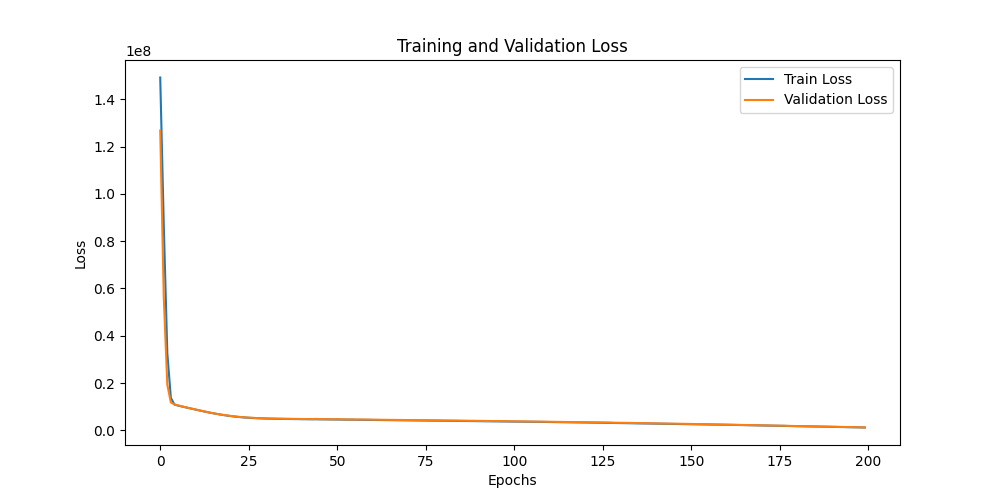
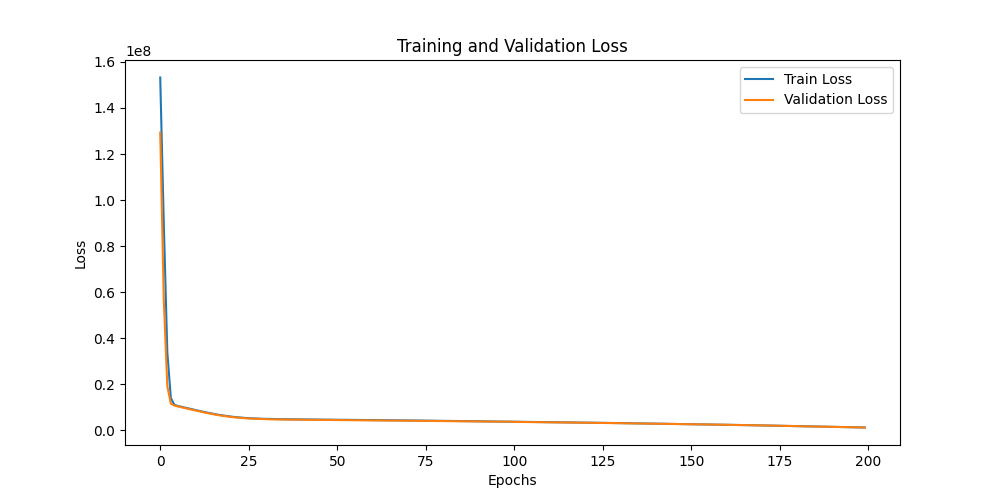
Mejoras en exercise01 y 02

diff --git a/src/exercise_02/model.py b/src/exercise_02/model.py
@@ -1,9 +1,13 @@
+# Define los modelos de perceptrón simple y multicapa/multilayer perceptron
+
 import torch
 import torch.nn as nn
 
-
 # Debe tener el init y el forward
-class SimplePerceptron(nn.Module):
+class SimplePerceptron(nn.Module): # Hereda de nn.Module, es un requisito
+    """
+    Modelo de perceptrón simple: una sola capa lineal y una activación identidad
+    """
     def __init__(self, input_dim, output_dim):
         super().__init__()
         self.fc = nn.Linear(input_dim, output_dim)
@@ -17,13 +21,14 @@ class SimplePerceptron(nn.Module):
 
 
 class MultiLayerPerceptron(nn.Module):  # Hereda de nn.Module, es un requisito
+    """ 
+    Modelo de perceptrón multicapa: Capa oculta con ReLU y capa de salida lineal
+    """
     def __init__(
         self, input_dim, output_dim, num_hidden_neurons, apodo
     ):  # Parametros de entrada y salida
-        super().__init__()  # es necesario
-        self.fc1 = nn.Linear(
-            input_dim, num_hidden_neurons
-        )  # Modelo lineal , añade capa lineal del perceptron, "capa oculta"
+        super().__init__() # es necesario
+        self.fc1 = nn.Linear(input_dim, num_hidden_neurons) # Modelo lineal , añade capa lineal del perceptron, "capa oculta"
         self.fc2 = nn.Linear(num_hidden_neurons, output_dim) # Capa de salida
         self.activation = nn.Identity()
         self.activation = nn.ReLU()
@@ -31,8 +36,8 @@ class MultiLayerPerceptron(nn.Module):  # Hereda de nn.Module, es un requisito
 
     def forward(self, x, use_activation=True):
         x1 = self.fc1(x)  # Falta la activacion
-        x1 = self.activation(x1)  # Aplicamos la activacion
-        x2 = self.fc2(x1)
+        x1 = self.activation(x1)  # Aplicamos la activacion con ReLU
+        x2 = self.fc2(x1) # Capa de salida
 
         if use_activation:
             x2 = self.activation(x2)

diff --git a/src/exercise_02/train.py b/src/exercise_02/train.py
@@ -1,3 +1,5 @@
+# Script de entrenamiento
+
 from pathlib import Path
 
 import matplotlib.pyplot as plt
@@ -7,8 +9,8 @@ import torch.optim as optim
 from torch.utils.data import DataLoader, random_split
 from tqdm import tqdm
 
-from .dataset import NoisyRegressionDataset
-from .model import MultiLayerPerceptron
+from dataset import NoisyRegressionDataset
+from model import MultiLayerPerceptron
 
 
 def get_device(force: str = "auto") -> torch.device:
@@ -32,9 +34,7 @@ def train_model(output_folder: Path, device: torch.device):
     train_size = int(0.7 * len(dataset))
     val_size = int(0.15 * len(dataset))
     test_size = len(dataset) - train_size - val_size
-    train_dataset, val_dataset, test_dataset = random_split(
-        dataset, [train_size, val_size, test_size]
-    )
+    train_dataset, val_dataset, test_dataset = random_split(dataset, [train_size, val_size, test_size])
 
     # Create DataLoaders for the datasets
     pin_memory = True if device.type == "cuda" else False
@@ -46,10 +46,10 @@ def train_model(output_folder: Path, device: torch.device):
     output_dim = 1
     model = MultiLayerPerceptron(input_dim, output_dim, num_hidden_neurons=64, apodo="exercise_02").to(device)
     criterion = nn.MSELoss()
-    optimizer = optim.AdamW(model.parameters(), lr=0.001)
+    optimizer = optim.AdamW(model.parameters(), lr=0.001) # AdamW es el algoritmo de optimización y lr es la tasa de aprendizaje (learning rate)
 
     # Training loop with validation and saving best weights
-    num_epochs = 200 # Aumentamos de 100 a 250 porque el validation loss seguía bajando
+    num_epochs = 200 # Aumentamos de 100 a 200 porque el validation loss seguía bajando
     best_val_loss = float("inf")
     best_model_path = output_folder / "best_model.pth"
 

diff --git a/src/exercise_02/dataset.py b/src/exercise_02/dataset.py
@@ -1,3 +1,5 @@
+# Define el dataset de regresión con ruido cuadrático
+
 from pathlib import Path
 
 import matplotlib.pyplot as plt
@@ -9,6 +11,12 @@ from torch.utils.data import Dataset
 
 
 class NoisyRegressionDataset(Dataset):
+    """
+    Genera el dataset con ruido siguiendo la ecuación:
+    y = -3*x^2 + 5*x + delta
+    donde delta es ruido gaussiano con desviación estándar `noise_std`
+    """
+    
     def __init__(self, noise_std=20, size=100, seed=42):
         np.random.seed(seed)
         self.x = np.random.uniform(0, 100, size=(size,))
@@ -24,15 +32,19 @@ class NoisyRegressionDataset(Dataset):
         self.y = self.y.reshape((-1, 1))
 
     def plot(self, filepath):
+        # Guardar la gráfica de los datos
         ax = sns.scatterplot(self.df, x="x", y="y")
-        ax.set_title("Synthetic noisy data of y=5*x+2")
+        ax.set_title("Synthetic noisy data of y=-3*x^2+5*x")
         plt.savefig(filepath)
         plt.show()
 
     def __len__(self):
+        # Para que sea compatible con PyTorch Dataset
         return len(self.x)
 
     def __getitem__(self, idx):
+        # Para que sea compatible con PyTorch Dataset
+        # return self.x[idx], self.y[idx] # Se puede hacer así, pero es mejor usar tensores de torch
         return torch.tensor(self.x[idx], dtype=torch.float32), torch.tensor(
             self.y[idx], dtype=torch.float32
         )

diff --git a/src/exercise_01/model.py b/src/exercise_01/model.py
@@ -1,7 +1,7 @@
 # Define los modelos de perceptrón simple y multicapa/multilayer perceptron
+
 import torch
 import torch.nn as nn
-
 
 # Debe tener el init y el forward
 class SimplePerceptron(nn.Module): # Hereda de nn.Module, es un requisito
@@ -27,9 +27,9 @@ class MultiLayerPerceptron(nn.Module): # Hereda de nn.Module, es un requisito
     def __init__(
         self, input_dim, output_dim, num_hidden_neurons, apodo
     ):  # Parametros de entrada y salida
-        super().__init__()
-        self.fc1 = nn.Linear(input_dim, num_hidden_neurons)
-        self.fc2 = nn.Linear(num_hidden_neurons, output_dim)
+        super().__init__() # es necesario
+        self.fc1 = nn.Linear(input_dim, num_hidden_neurons) # Modelo lineal , añade capa lineal del perceptron, "capa oculta"
+        self.fc2 = nn.Linear(num_hidden_neurons, output_dim) # Capa de salida
         self.activation = nn.Identity()
         self.activation = nn.ReLU()
         self.apodo = apodo
@@ -37,7 +37,7 @@ class MultiLayerPerceptron(nn.Module): # Hereda de nn.Module, es un requisito
     def forward(self, x, use_activation=True):
         x1 = self.fc1(x)  # Falta la activación
         x1 = self.activation(x1)  # Aplicar la activación, relu porque es no lineal
-        x2 = self.fc2(x1)
+        x2 = self.fc2(x1) # Capa de salida
 
         if use_activation:
             x2 = self.activation(x2)

diff --git a/src/exercise_02/evaluate.py b/src/exercise_02/evaluate.py
@@ -1,3 +1,5 @@
+# Script de evaluación y generación de gráficos
+
 from pathlib import Path
 
 import matplotlib.pyplot as plt
@@ -19,7 +21,7 @@ def evaluate_and_plot(loader, model, dataset_name, output_folder):
 
     with torch.no_grad():  # Desactivar el cálculo de gradientes para ir más rápido
         for inputs, targets in loader:
-            outputs = model(inputs, use_activation=False)
+            outputs = model(inputs, use_activation=False) # La última capa no tiene activación
             all_inputs.append(inputs.numpy())
             all_outputs.append(outputs.numpy())
             all_targets.append(targets.numpy())

diff --git a/src/exercise_01/dataset.py b/src/exercise_01/dataset.py
@@ -59,4 +59,3 @@ if __name__ == "__main__":
     print(f"First item: {dataset[0]}")
     # save the plot
     dataset.plot(output_folder / "plot_dataset_example.png")
-    dataset.plot(output_folder / "plot_dataset_example.png")

diff --git a/src/exercise_02/readme_exercise.md b/src/exercise_02/readme_exercise.md
@@ -95,7 +95,7 @@ Como estamos tratando con un problema de regresión, utilizaremos el error cuadr
 
 ### Descripción del conjunto de datos
 
-El conjunto de datos contiene 10.000 puntos de datos ruidosos con una desviación estándar de ruido de 20 respecto a la función real ($y = -3x^2 + 5x$).
+El conjunto de datos contiene 10000 puntos de datos ruidosos con una desviación estándar de ruido de 20 respecto a la función real ($y = -3x^2 + 5x$).
 
 ### Preparación y preprocesamiento de datos
 
@@ -109,14 +109,14 @@ No se ha realizado ninguna ampliación de datos.
 
 Para la función $y = -3x^2 + 5x$, un modelo lineal (SinglePerceptron) no es suficiente. Por ello utilizamos un perceptrón multicapa (MultilayerPerceptron) con una capa oculta (fc1) y activación ReLU, y activación identidad en la última capa (regresión sin límites). Esto permite capturar la no linealidad de la función objetivo.
 
-### Funciones de pérdida adecuadas [ESCRIBIR RESPUESTA]
+### Funciones de pérdida adecuadas
 
 La función de pérdida utilizada depende del tipo de problema:
 
 - En regresión no lineal, se emplea el error cuadrático medio (MSE).
 - En problemas de clasificación, se utiliza la entropía cruzada.
 
-### Función de Pérdida Seleccionada [ESCRIBIR RESPUESTA]
+### Función de Pérdida Seleccionada
 
 En esta tarea se utiliza la función de pérdida MSE (Mean Squared Error), ya que el problema planteado es un problema de regresión no lineal, en el que la salida del modelo es una variable continua.
 

diff --git a/src/exercise_01/readme_exercise.md b/src/exercise_01/readme_exercise.md
@@ -117,7 +117,7 @@ Como estamos tratando con un problema de regresión, utilizaremos el error cuadr
 
 ### Descripción del conjunto de datos
 
-El conjunto de datos contiene 100 puntos de datos ruidosos con una desviación estándar de ruido de 20 respecto a la función real (y = 5x + 2).
+El conjunto de datos contiene 10000 puntos de datos ruidosos con una desviación estándar de ruido de 20 respecto a la función real (y = 5x + 2).
 
 ### Preparación y preprocesamiento de datos
 
